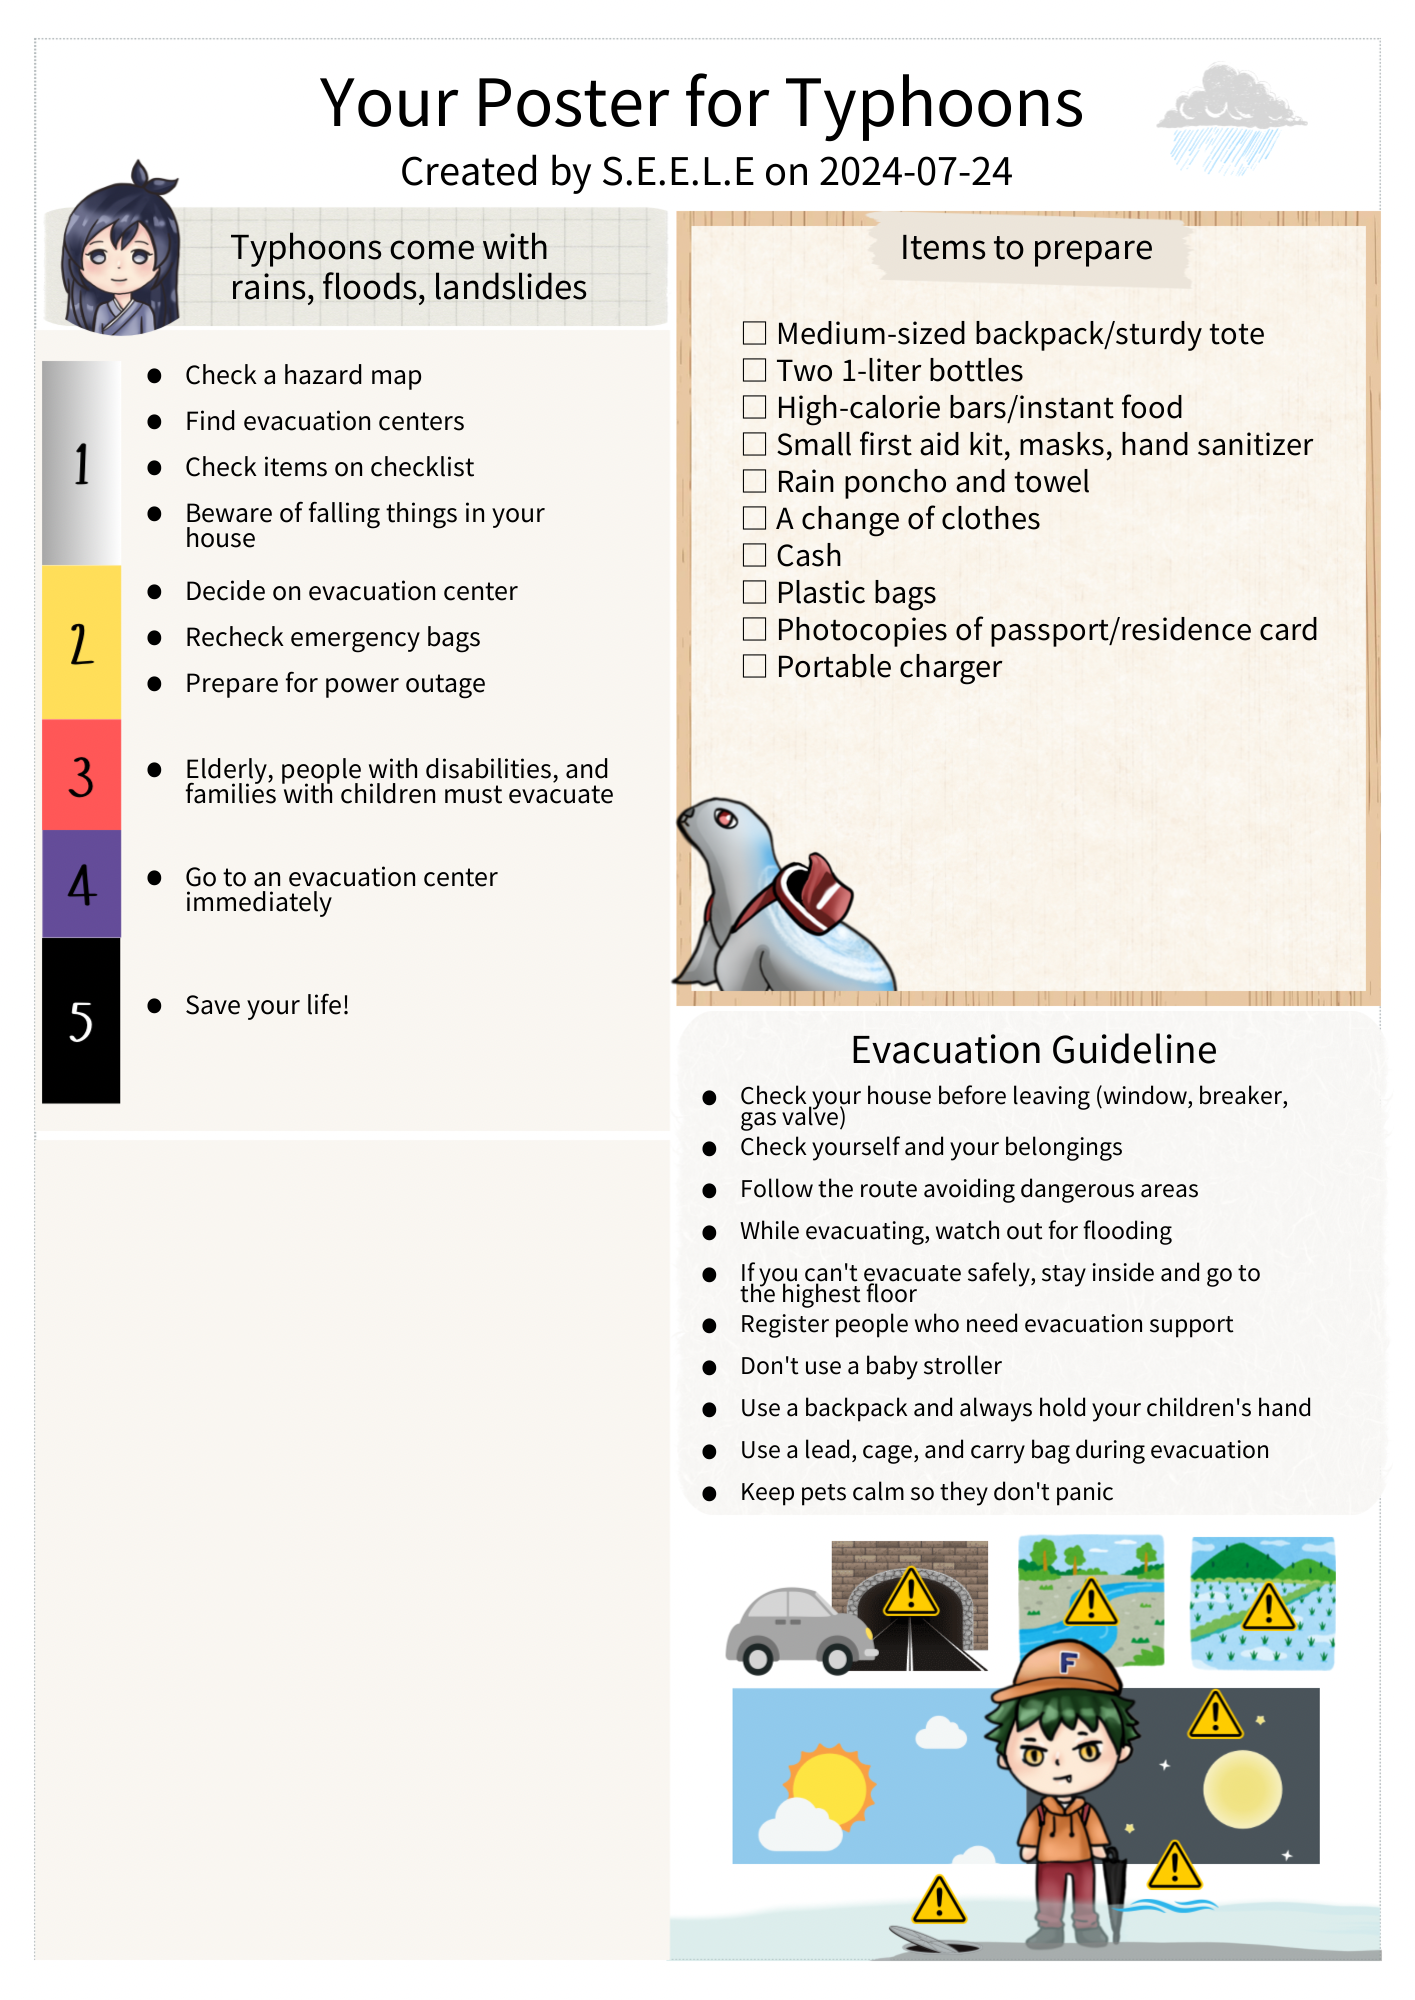
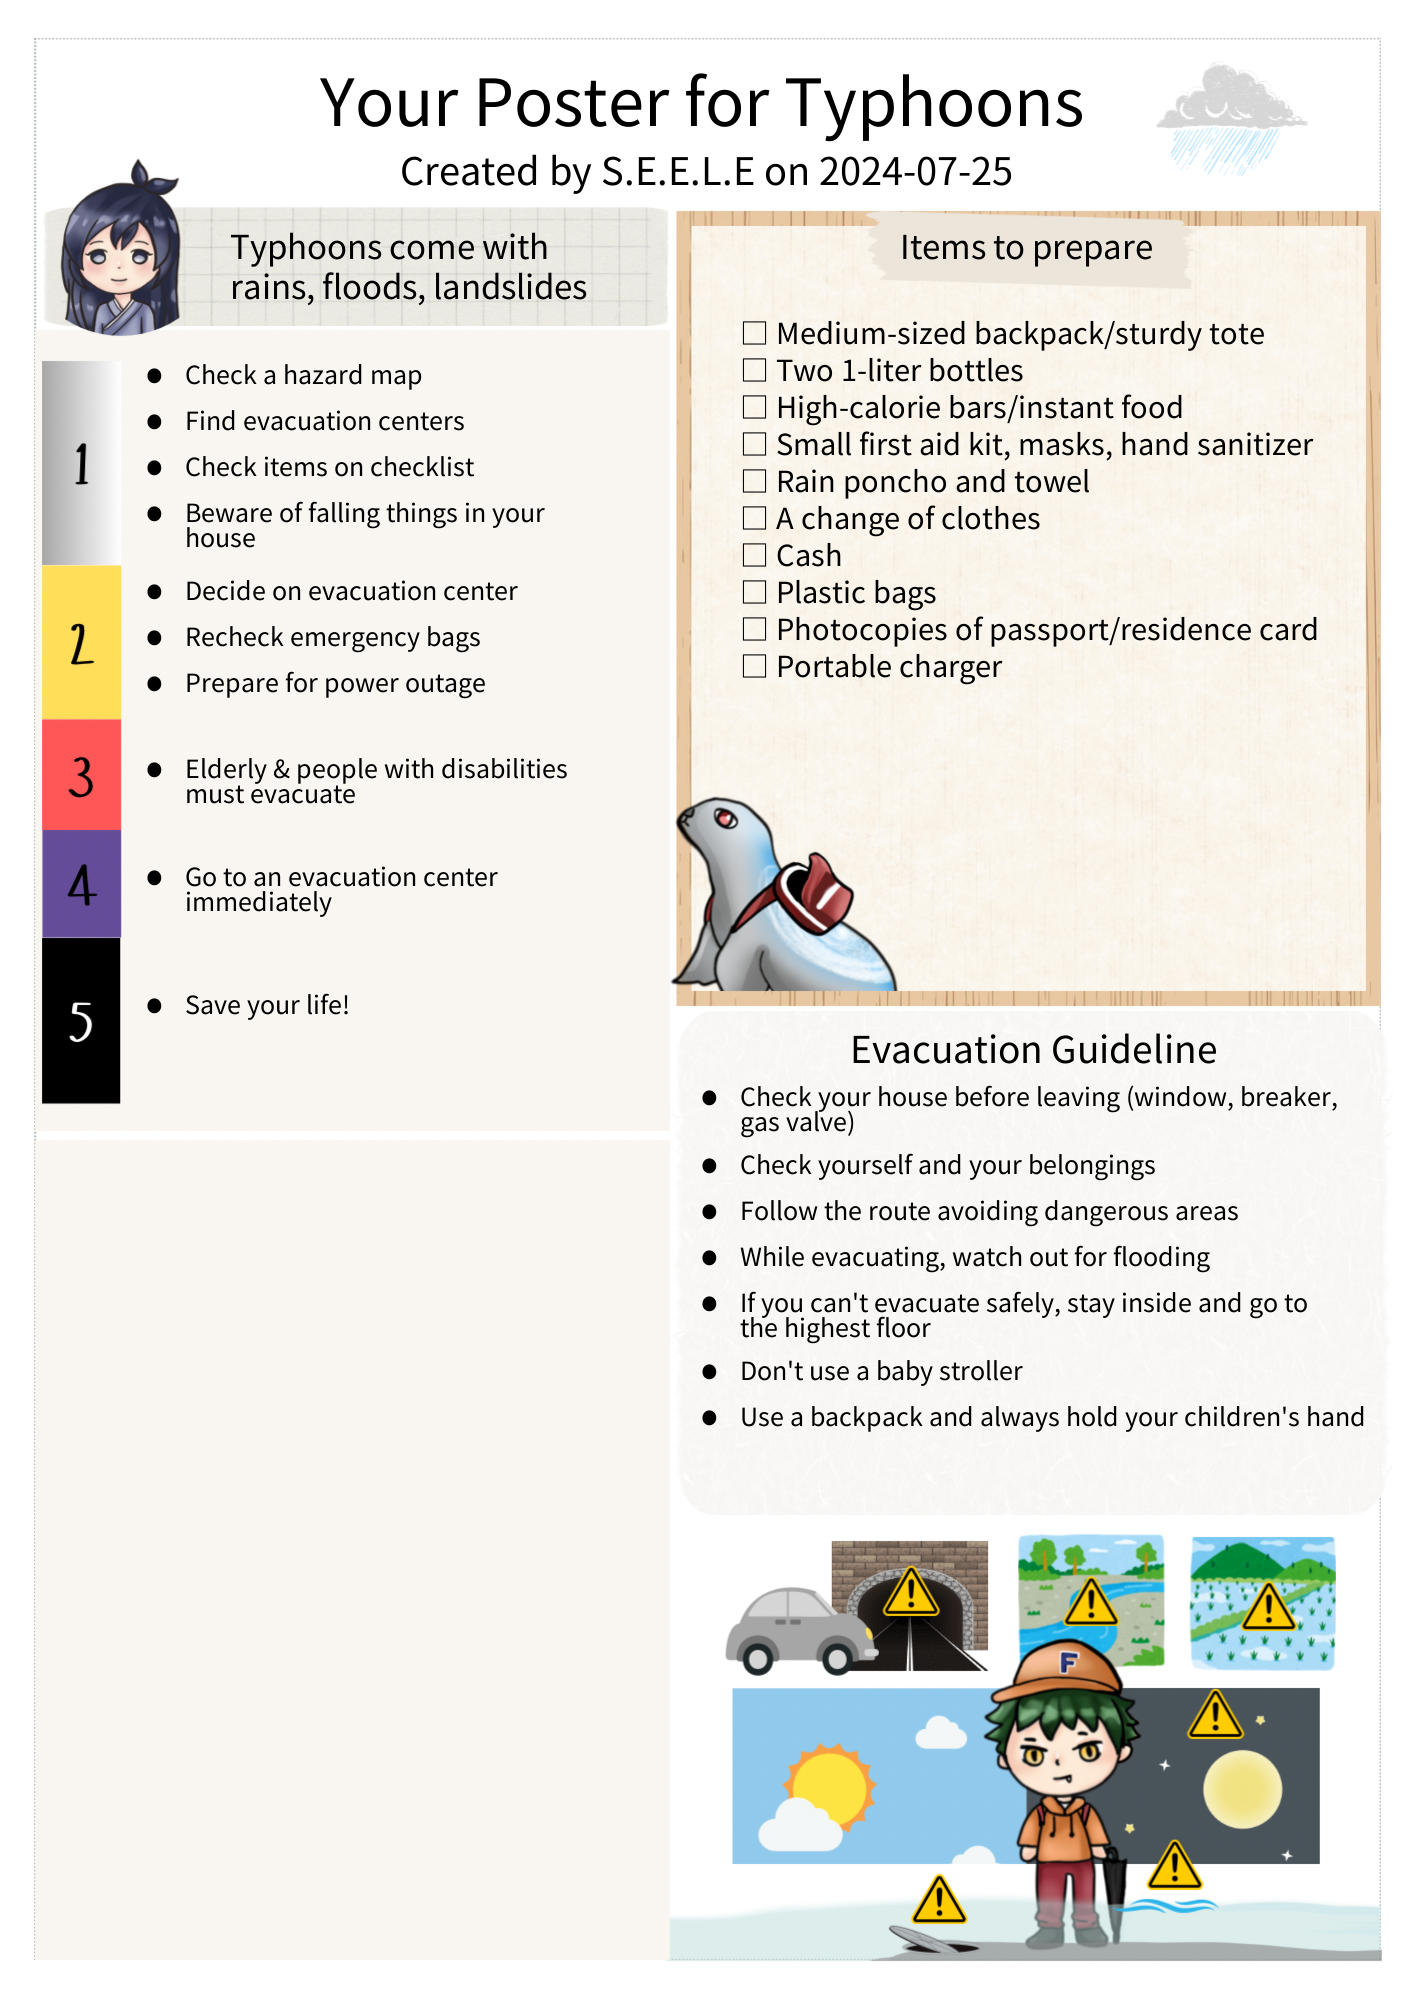
Generate poster without account

Changed region(s): [[0.4975, 0.527, 0.964, 0.775], [0.1244, 0.372, 0.4353, 0.403], [0.6841, 0.062, 0.7152, 0.093]]

diff --git a/website/utils.py b/website/utils.py
@@ -54,7 +54,7 @@ def bullet_spacing(draw, fonts, list, x, y, scale, bigList=False):
                 y += int(9 * scale)
     return y
 
-def typhoon_flood_checklist(draw, fonts, scale, user, disaster_type):
+def typhoon_flood_checklist(draw, fonts, scale, user, disaster_type, using_backdoor):
 
     header_font = fonts['header']
     draw_text(draw, gettext("Typhoons come with"), header_font, 230 * scale, 220 * scale)
@@ -73,13 +73,19 @@ def typhoon_flood_checklist(draw, fonts, scale, user, disaster_type):
         (gettext("Recheck emergency bags"), True),
         (gettext("Prepare for power outage"), True),
     ]
-    
-    if user.child_bool:
-        level3_typhoon = [
-            (gettext("Elderly, people with disabilities, and"), True),
-            (gettext("families with children must evacuate"), False),
-        ]
-    
+
+    if not using_backdoor:
+        if user.child_bool:
+            level3_typhoon = [
+                (gettext("Elderly, people with disabilities, and"), True),
+                (gettext("families with children must evacuate"), False),
+            ]
+
+        else:
+            level3_typhoon = [
+                (gettext("Elderly & people with disabilities"), True),
+                (gettext("must evacuate"), False),
+            ]
     else:
         level3_typhoon = [
             (gettext("Elderly & people with disabilities"), True),
@@ -117,16 +123,22 @@ def typhoon_flood_checklist(draw, fonts, scale, user, disaster_type):
             (gettext("the highest floor"), False),
         ]
 
-    if user.blind_bool or user.deaf_bool or user.wheelchair_bool:
-        disaster_tips.append((gettext("Register people who need evacuation support"), True))
+    if not using_backdoor:
+        if user.blind_bool or user.deaf_bool or user.wheelchair_bool:
+            disaster_tips.append((gettext("Register people who need evacuation support"), True))
 
-    if user.child_bool or user.baby_bool:
+    if not using_backdoor:
+        if user.child_bool or user.baby_bool:
+            disaster_tips.append((gettext("Don't use a baby stroller"), True))
+            disaster_tips.append((gettext("Use a backpack and always hold your children's hand"), True))
+    else:
         disaster_tips.append((gettext("Don't use a baby stroller"), True))
         disaster_tips.append((gettext("Use a backpack and always hold your children's hand"), True))
 
-    if user.pet_bool:
-        disaster_tips.append((gettext("Use a lead, cage, and carry bag during evacuation"), True))
-        disaster_tips.append((gettext("Keep pets calm so they don't panic"), True))
+    if not using_backdoor:
+        if user.pet_bool:
+            disaster_tips.append((gettext("Use a lead, cage, and carry bag during evacuation"), True))
+            disaster_tips.append((gettext("Keep pets calm so they don't panic"), True))
         
     y = bullet_spacing(draw, fonts, level1_typhoon, 145 * scale, 328 * scale, scale)
     y = bullet_spacing(draw, fonts, level2_typhoon, 145 * scale, y + int(10 * scale), scale)
@@ -307,7 +319,7 @@ def earthquake_checklist(draw, fonts, scale):
     draw_text(draw, gettext("Safety Guidelines"), guideline_font, 210 * scale, 328 * scale)
     bullet_spacing(draw, fonts, disaster_tips, 55 * scale, 368 * scale, scale)
 
-def checklist_image(checklist, disaster_type, user):
+def checklist_image(checklist, disaster_type, user, using_backdoor):
     if disaster_type == "Typhoon":
         background_path = os.path.join(settings.STATIC_ROOT, 'images', 'typhoon_template.png')
         background = Image.open(background_path).convert('RGB')
@@ -338,9 +350,17 @@ def checklist_image(checklist, disaster_type, user):
     with open(f"website/static/{disaster_type.lower()}_tts.txt", "w", encoding="utf-8") as file:
         big_header = ""
         if disaster_type == "Earthquake":
-            big_header = f"{user.name}様への地震ポスター\n" if get_language().startswith("jp") else "Your Poster for Earthquakes\n"
+            if using_backdoor:
+                big_header = f"TestName様への地震ポスター\n" if get_language().startswith(
+                    "jp") else "Your Poster for Earthquakes\n"
+            else:
+                big_header = f"{user.name}様への地震ポスター\n" if get_language().startswith("jp") else "Your Poster for Earthquakes\n"
         else:
-            big_header = f"{user.name}様への台風ポスター\n" if get_language().startswith("jp") else "Your Poster for Typhoons\n"
+            if using_backdoor:
+                big_header = f"TestName様への台風ポスター\n" if get_language().startswith(
+                    "jp") else "Your Poster for Typhoons\n"
+            else:
+                big_header = f"{user.name}様への台風ポスター\n" if get_language().startswith("jp") else "Your Poster for Typhoons\n"
         file.write(big_header)
         file.write(gettext("Items to prepare:,\n"))
 
@@ -352,12 +372,18 @@ def checklist_image(checklist, disaster_type, user):
                 file.write(f"{item},\n")
 
     if disaster_type == "Earthquake":
-        big_header = f"{user.name}様への地震ポスター" if get_language().startswith("jp") else "Your Poster for Earthquakes"
+        if using_backdoor:
+            big_header = f"TestName様への地震ポスター" if get_language().startswith("jp") else "Your Poster for Earthquakes"
+        else:
+            big_header = f"{user.name}様への地震ポスター" if get_language().startswith("jp") else "Your Poster for Earthquakes"
         title_offset = 190 if not get_language().startswith("jp") else 230
         tasks.append((draw_text, (draw, big_header, fonts['title'], title_offset * scale, 35 * scale)))
     
     else:
-        big_header = f"{user.name}様への台風ポスター" if get_language().startswith("jp") else "Your Poster for Typhoons"
+        if using_backdoor:
+            big_header = f"TestName様への台風ポスター" if get_language().startswith("jp") else "Your Poster for Typhoons"
+        else:
+            big_header = f"{user.name}様への台風ポスター" if get_language().startswith("jp") else "Your Poster for Typhoons"
         tasks.append((draw_text, (draw, big_header, fonts['title'], 320 * scale, 50 * scale)))
 
     date_offset = 400 if not get_language().startswith("jp") else 290
@@ -381,7 +407,7 @@ def checklist_image(checklist, disaster_type, user):
             y += 37 * scale
 
     if disaster_type == "Typhoon":
-        typhoon_flood_checklist(draw, fonts, scale, user, disaster_type)
+        typhoon_flood_checklist(draw, fonts, scale, user, disaster_type, using_backdoor)
 
     elif disaster_type == "Earthquake":
         earthquake_checklist(draw, fonts, scale)

diff --git a/website/views.py b/website/views.py
@@ -785,10 +785,20 @@ def disasterposter(request):
     elif request.method == 'POST':
         #Find the closest shelter first
         email = request.session.get("user_email")
-        user = Users.objects.get(email=email)
-        user_location = [user.latitude, user.longitude]
-        shelter_coord = closest_shelter(user_location)
-        middle_coord = [(user_location[0] + shelter_coord[0]) / 2.0, (user_location[1] + shelter_coord[1]) / 2.0]
+        back = False
+        if not email:
+            email = request.session.get("b_email")
+            back = True
+
+        if back:
+            user_location = [35, 135]
+            shelter_coord = closest_shelter(user_location)
+            middle_coord = [(user_location[0] + shelter_coord[0]) / 2.0, (user_location[1] + shelter_coord[1]) / 2.0]
+        else:
+            user = Users.objects.get(email=email)
+            user_location = [user.latitude, user.longitude]
+            shelter_coord = closest_shelter(user_location)
+            middle_coord = [(user_location[0] + shelter_coord[0]) / 2.0, (user_location[1] + shelter_coord[1]) / 2.0]
 
         #GeoJSON Information
         result = []
@@ -798,12 +808,15 @@ def disasterposter(request):
         # Gets disaster type and checklist based on whats saved in the session
         disaster_type = request.session.get('disaster_type')
         checklist = request.session.get('checklist')
-        user = Users.objects.get(email=email)
+        if not back:
+            user = Users.objects.get(email=email)
+        else:
+            user = "None"
 
         if not disaster_type or not checklist:
             return redirect('disasterprep')
 
-        image_name = checklist_image(checklist, disaster_type, user)
+        image_name = checklist_image(checklist, disaster_type, user, back)
         if image_name and settings.STATIC_URL:
             image_url = f"{settings.STATIC_URL}images/{image_name}"
             api_thread.join()
@@ -912,7 +925,11 @@ def download_poster(request):
 
 def logout(request):
     try:
-        del request.session["user_email"]
+        email = request.session.get("user_email")
+        if email:
+            del request.session["user_email"]
+        else:
+            del request.session["b_email"]
     except KeyError as err:
         return HttpResponse(_("No user logged in"), status=404)
     return redirect("login")
